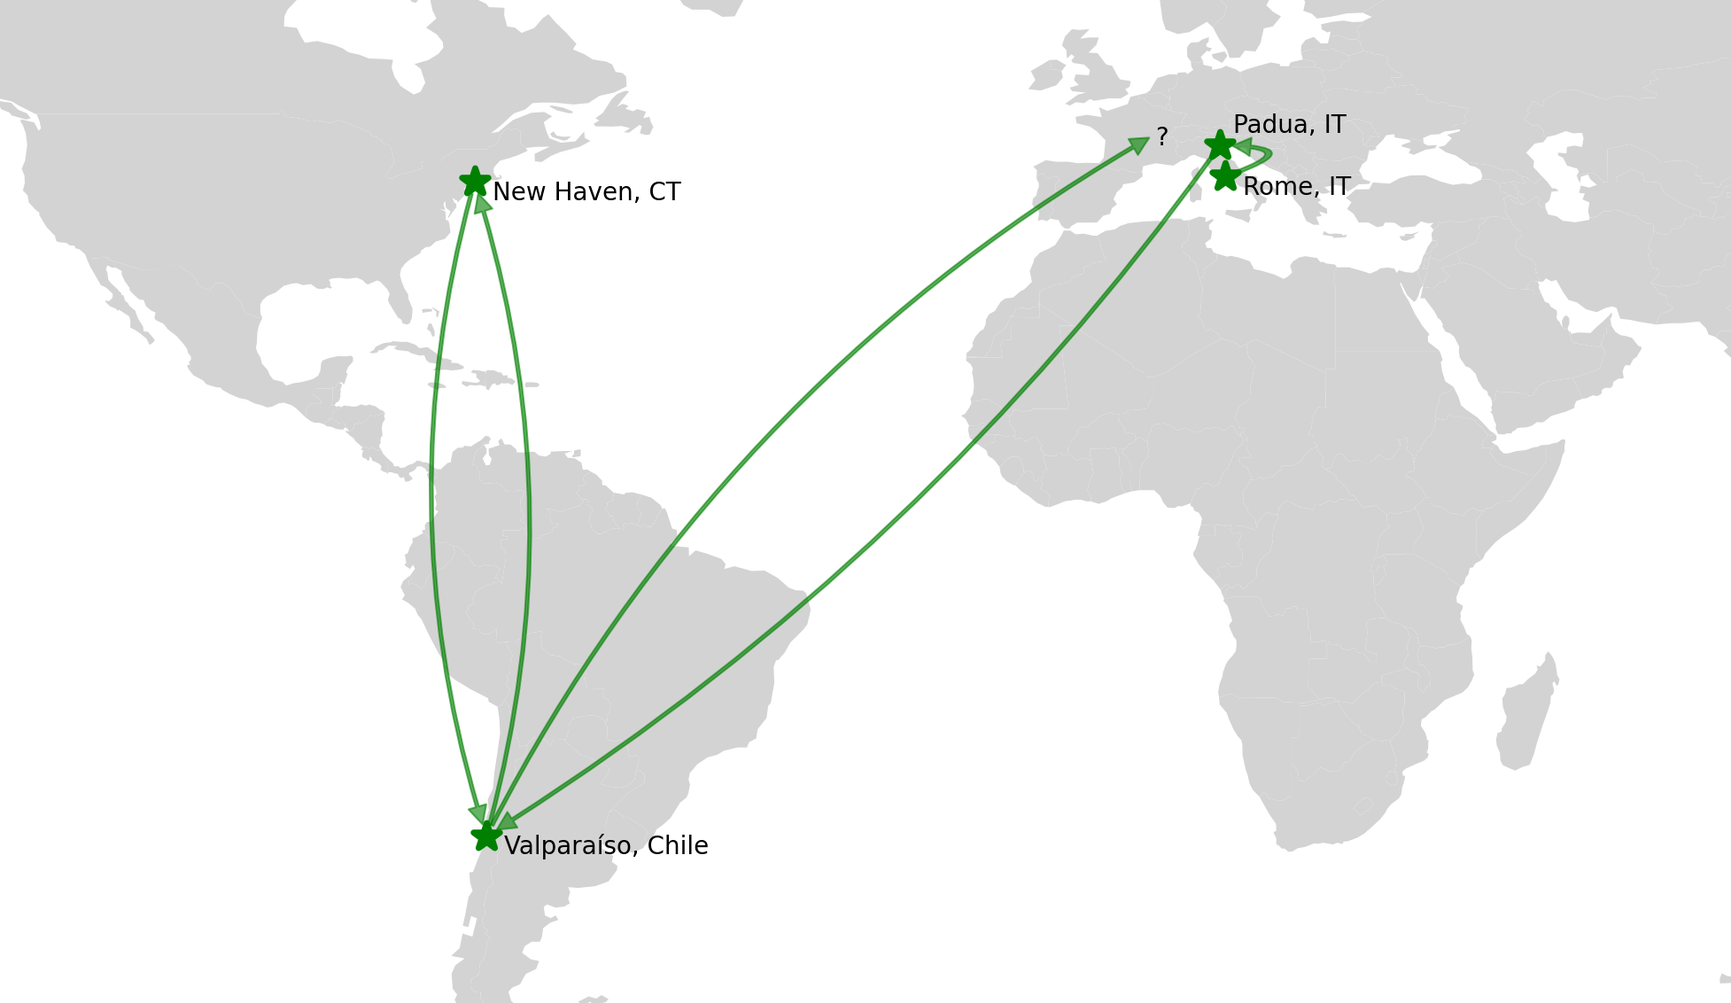
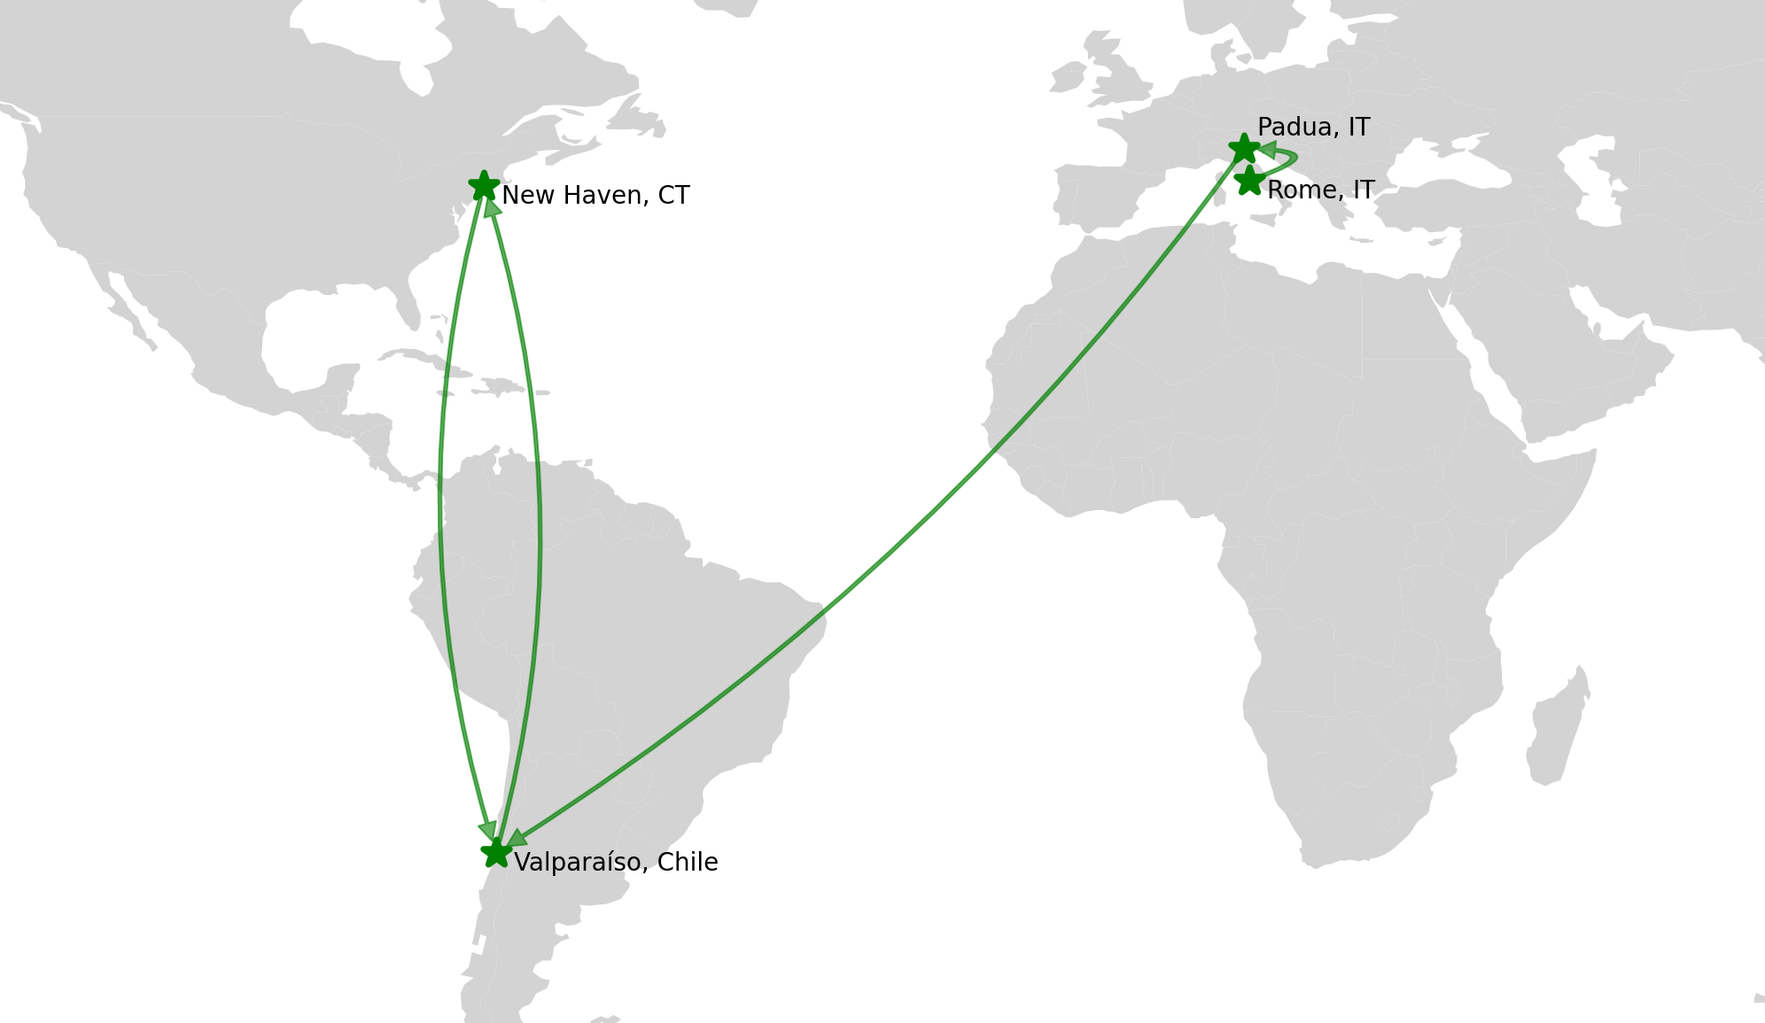
Reintroduced world map as background but in experiences section. Updated world map image and realigned index file.

diff --git a/index.html b/index.html
@@ -169,7 +169,8 @@
                               <h2 class="number zero">04</h2>
                            </div>
                            <h2 class="project-title">Light curves</h2>
-                           <p class="project-description">investigating the variability of active black holes in galactic centers</p>
+                           <p class="project-description">investigating the variability of active black holes in
+                              galactic centers</p>
                            <div class="collection-list-wrapper w-dyn-list">
                               <div role="list" class="w-dyn-items w-row">
                                  <div role="listitem" class="collection-item-2 w-dyn-item w-col w-col-6"><a href="#"
@@ -229,7 +230,8 @@
                                  &#95;
                               </div>
                            </div>
-                           <p class="project-description">An interactive app that generates pizza recipes based on user preferences.</p>
+                           <p class="project-description">An interactive app that generates pizza recipes based on user
+                              preferences.</p>
                            <div class="collection-list-wrapper w-dyn-list">
                               <div role="list" class="w-dyn-items w-row">
                                  <div role="listitem" class="collection-item-2 w-dyn-item w-col w-col-6"><a href="#"
@@ -251,7 +253,8 @@
                               <h2 class="number zero">07</h2>
                            </div>
                            <h2 class="project-title">WO Cal</h2>
-                           <p class="project-description">A calendar app that enables users to log and track their workouts performed by following YouTube videos.</p>
+                           <p class="project-description">A calendar app that enables users to log and track their
+                              workouts performed by following YouTube videos.</p>
                            <div class="collection-list-wrapper w-dyn-list">
                               <div role="list" class="w-dyn-items w-row">
                                  <div role="listitem" class="collection-item-2 w-dyn-item w-col w-col-6"><a href="#"
@@ -278,7 +281,7 @@
                            <div class="collection-list-wrapper w-dyn-list">
                               <div role="list" class="w-dyn-items w-row">
                                  <div role="listitem" class="collection-item-2 w-dyn-item w-col w-col-6"><a href="#"
-                                       class="tag-button w-button">IDL    .</a></div>
+                                       class="tag-button w-button">IDL .</a></div>
                                  <div role="listitem" class="collection-item-2 w-dyn-item w-col w-col-6"><a href="#"
                                        class="tag-button w-button"></a></div>
                               </div>
@@ -297,7 +300,8 @@
                               <h2 class="number zero">09</h2>
                            </div>
                            <h2 class="project-title">This website</h2>
-                           <p class="project-description">A Webflow-based portfolio website with customizations, made with no previous web experience</p>
+                           <p class="project-description">A Webflow-based portfolio website with customizations, made
+                              with no previous web experience</p>
                            <div class="collection-list-wrapper w-dyn-list">
                               <div class="empty-state-2 w-dyn-empty">
                                  <div>No items found.</div>
@@ -309,7 +313,9 @@
                </div>
             </div>
          </div>
-         <div-block-28 class="sticky" onclick="scrollFunction1('about_me')"><btn class="bouncy" style="animation-delay:0.07s">&#8595  About me</btn></div-block-28>
+         <div-block-28 class="sticky" onclick="scrollFunction1('about_me')">
+            <btn class="bouncy" style="animation-delay:0.07s">&#8595 About me</btn>
+         </div-block-28>
          <!--
          <div class="wrapper about" id="about_me">
             <div class="column about">
@@ -377,129 +383,134 @@
                         alt="" /></a>
                </div>
             </div>
+         </div>
+         <div class="wrapper about" id="about_me">
             <div class="wrapper-info about">
-               <div class="wrap-content">
-                  <h2 class="heading-8">Experiences</h2>
-                  <div class="div-block-16">
-                     <h4 class="heading-9">PhD in astrophysics</h4>
-                     <p>Universidad de Valparaíso, Chile</p>
-                  </div>
-                  <div class="div-block-16">
-                     <h4 class="heading-9">Visiting assistant in research</h4>
-                     <p>Yale University, New Haven, CT, USA</p>
-                  </div>
-                  <div class="div-block-16">
-                     <h4 class="heading-10">MSc in astronomy</h4>
-                     <p>Università degli Studi di Padova, Italy</p>
-                  </div>
-                  <div class="div-block-16">
-                     <h4 class="heading-11">BSc in physics</h4>
-                     <p>Università degli Studi Roma Tre, Italy</p>
-                  </div>
-                  <div class="signature">Rosamaria.</div>
+               <!--
+               <div class="wrap-content"> -->
+               <h2 class="heading-8">Experiences</h2>
+               <div class="div-block-16">
+                  <h4 class="heading-9">PhD in astrophysics</h4>
+                  <p>Universidad de Valparaíso, Chile</p>
                </div>
+               <div class="div-block-16">
+                  <h4 class="heading-9">Visiting assistant in research</h4>
+                  <p>Yale University, New Haven, CT, USA</p>
+               </div>
+               <div class="div-block-16">
+                  <h4 class="heading-10">MSc in astronomy</h4>
+                  <p>Università degli Studi di Padova, Italy</p>
+               </div>
+               <div class="div-block-16">
+                  <h4 class="heading-11">BSc in physics</h4>
+                  <p>Università degli Studi Roma Tre, Italy</p>
+               </div>
+               <div class="signature">Rosamaria.</div>
             </div>
-            <div-block-28 class="sticky" onclick="scrollFunction1('contact_me')"><btn class="bouncy" style="animation-delay:0.07s">&#8595  Contact me</btn></div-block-28>
-            <div class="wrapper-info contact" id="contact_me">
-               <div class="div-block-18">
-                  <h2 class="heading-12">Get in touch.</h2>
-               </div>
-               <div class="wrap-content">
-                  <div class="_w-form">
-                     <div class="w-form">
-                        <form id="email-form" name="email-form" data-name="Email Form" method="get"><input type="text"
-                              class="field w-input" maxlength="256" name="name" data-name="Name" placeholder="Your Name"
-                              id="name"><input type="text" class="field w-input" maxlength="256" name="name-2"
-                              data-name="Name 2" placeholder="Your Email" id="name-2"><textarea id="field" name="field"
-                              placeholder="Message" maxlength="5000" data-name="field"
-                              class="field w-input"></textarea><input type="submit" value="Submit"
-                              data-wait="Please wait..." class="tag-button w-button"></form>
-                        <div class="w-form-done">
-                           <div>Thank you! Your submission has been received!</div>
-                        </div>
-                        <div class="w-form-fail">
-                           <div>Oops! Something went wrong while submitting the form.</div>
-                        </div>
+         </div>
+         <div-block-28 class="sticky" onclick="scrollFunction1('contact_me')">
+            <btn class="bouncy" style="animation-delay:0.07s">&#8595 Contact me</btn>
+         </div-block-28>
+         <div class="wrapper-info contact" id="contact_me">
+            <div class="div-block-18">
+               <h2 class="heading-12">Get in touch.</h2>
+            </div>
+            <div class="wrap-content">
+               <div class="_w-form">
+                  <div class="w-form">
+                     <form id="email-form" name="email-form" data-name="Email Form" method="get"><input type="text"
+                           class="field w-input" maxlength="256" name="name" data-name="Name" placeholder="Your Name"
+                           id="name"><input type="text" class="field w-input" maxlength="256" name="name-2"
+                           data-name="Name 2" placeholder="Your Email" id="name-2"><textarea id="field" name="field"
+                           placeholder="Message" maxlength="5000" data-name="field"
+                           class="field w-input"></textarea><input type="submit" value="Submit"
+                           data-wait="Please wait..." class="tag-button w-button"></form>
+                     <div class="w-form-done">
+                        <div>Thank you! Your submission has been received!</div>
+                     </div>
+                     <div class="w-form-fail">
+                        <div>Oops! Something went wrong while submitting the form.</div>
                      </div>
                   </div>
                </div>
             </div>
          </div>
-         <div class="wrapper center form base hide">
-            <div class="wrapper-info contact">
-               <div class="div-block-18">
-                  <h2>Around the web</h2>
-               </div>
-               <div>
-                  <div class="wrap-content links"><a href="/about" data-w-id="095e404c-d530-4466-20f6-3ad637b21e45"
-                        class="_w-link social w-inline-block">
-                        <h2 class="h2 mail">Email</h2>
-                        <div class="line-hover">
-                           <div
-                              style="-webkit-transform:translate3d(-102%, 0, 0) scale3d(1, 1, 1) rotateX(0) rotateY(0) rotateZ(0) skew(0, 0);-moz-transform:translate3d(-102%, 0, 0) scale3d(1, 1, 1) rotateX(0) rotateY(0) rotateZ(0) skew(0, 0);-ms-transform:translate3d(-102%, 0, 0) scale3d(1, 1, 1) rotateX(0) rotateY(0) rotateZ(0) skew(0, 0);transform:translate3d(-102%, 0, 0) scale3d(1, 1, 1) rotateX(0) rotateY(0) rotateZ(0) skew(0, 0)"
-                              class="fill-hover"></div>
-                        </div>
-                     </a><a href="/about" data-w-id="095e404c-d530-4466-20f6-3ad637b21e4a"
-                        class="_w-link social w-inline-block">
-                        <h2 class="h2 mail">Instagram</h2>
-                        <div class="line-hover">
-                           <div
-                              style="-webkit-transform:translate3d(-102%, 0, 0) scale3d(1, 1, 1) rotateX(0) rotateY(0) rotateZ(0) skew(0, 0);-moz-transform:translate3d(-102%, 0, 0) scale3d(1, 1, 1) rotateX(0) rotateY(0) rotateZ(0) skew(0, 0);-ms-transform:translate3d(-102%, 0, 0) scale3d(1, 1, 1) rotateX(0) rotateY(0) rotateZ(0) skew(0, 0);transform:translate3d(-102%, 0, 0) scale3d(1, 1, 1) rotateX(0) rotateY(0) rotateZ(0) skew(0, 0)"
-                              class="fill-hover"></div>
-                        </div>
-                     </a><a href="/about" data-w-id="095e404c-d530-4466-20f6-3ad637b21e4f"
-                        class="_w-link social w-inline-block">
-                        <h2 class="h2 mail">Twitter</h2>
-                        <div class="line-hover">
-                           <div
-                              style="-webkit-transform:translate3d(-102%, 0, 0) scale3d(1, 1, 1) rotateX(0) rotateY(0) rotateZ(0) skew(0, 0);-moz-transform:translate3d(-102%, 0, 0) scale3d(1, 1, 1) rotateX(0) rotateY(0) rotateZ(0) skew(0, 0);-ms-transform:translate3d(-102%, 0, 0) scale3d(1, 1, 1) rotateX(0) rotateY(0) rotateZ(0) skew(0, 0);transform:translate3d(-102%, 0, 0) scale3d(1, 1, 1) rotateX(0) rotateY(0) rotateZ(0) skew(0, 0)"
-                              class="fill-hover"></div>
-                        </div>
-                     </a><a href="/about" data-w-id="095e404c-d530-4466-20f6-3ad637b21e54"
-                        class="_w-link social w-inline-block">
-                        <h2 class="h2 mail">Facebook</h2>
-                        <div class="line-hover">
-                           <div
-                              style="-webkit-transform:translate3d(-102%, 0, 0) scale3d(1, 1, 1) rotateX(0) rotateY(0) rotateZ(0) skew(0, 0);-moz-transform:translate3d(-102%, 0, 0) scale3d(1, 1, 1) rotateX(0) rotateY(0) rotateZ(0) skew(0, 0);-ms-transform:translate3d(-102%, 0, 0) scale3d(1, 1, 1) rotateX(0) rotateY(0) rotateZ(0) skew(0, 0);transform:translate3d(-102%, 0, 0) scale3d(1, 1, 1) rotateX(0) rotateY(0) rotateZ(0) skew(0, 0)"
-                              class="fill-hover"></div>
-                        </div>
-                     </a><a href="/about" data-w-id="095e404c-d530-4466-20f6-3ad637b21e59"
-                        class="_w-link social w-inline-block">
-                        <h2 class="h2 mail">LinkedIn</h2>
-                        <div class="line-hover">
-                           <div
-                              style="-webkit-transform:translate3d(-102%, 0, 0) scale3d(1, 1, 1) rotateX(0) rotateY(0) rotateZ(0) skew(0, 0);-moz-transform:translate3d(-102%, 0, 0) scale3d(1, 1, 1) rotateX(0) rotateY(0) rotateZ(0) skew(0, 0);-ms-transform:translate3d(-102%, 0, 0) scale3d(1, 1, 1) rotateX(0) rotateY(0) rotateZ(0) skew(0, 0);transform:translate3d(-102%, 0, 0) scale3d(1, 1, 1) rotateX(0) rotateY(0) rotateZ(0) skew(0, 0)"
-                              class="fill-hover"></div>
-                        </div>
-                     </a></div>
-               </div>
+      </div>
+      <div class="wrapper center form base hide">
+         <div class="wrapper-info contact">
+            <div class="div-block-18">
+               <h2>Around the web</h2>
             </div>
-         </div>
-         <div class="div-block-27">
-            <div class="div-block-26">
-               <div class="heading-6">The Marvelous Portfolio of Dr. Carraro</div>
-               <div class="wrapper-list-links">
-                  <a href="https://github.com/RosCarraro" target="_blank" class="footer-links">GitHub</a>
-                  <a href="https://bitbucket.org/ros_carraro/" target="_blank" class="footer-links">Bitbucket</a>
-                  <a href="https://www.datacamp.com/profile/carrarorosamaria" target="_blank"
-                     class="footer-links">DataCamp</a>
-                  <a href="https://www.linkedin.com/in/rosamaria-carraro/" target="_blank"
-                     class="footer-links">LinkedIn</a>
-                  <a href="https://scholar.google.com/citations?user=sN1esaMAAAAJ" target="_blank"
-                     class="footer-links">Google
-                     Scholar</a>
-                  <a href="https://orcid.org/0000-0002-6089-1947" target="_blank" class="footer-links">ORCID</a>
-                  <a href="/docs/Rosamaria_Carraro_CV.pdf" target="_blank" class="footer-links">CV</a>
-               </div>
-               <img src="/images/62d5ff135f63b73916b3dbf5_IMG_20190818_182510_cut_small.jpg" width="100"
-                  srcset="/images/62d5ff135f63b73916b3dbf5_IMG_20190818_182510_cut_small-p-500.jpg 500w, /images/62d5ff135f63b73916b3dbf5_IMG_20190818_182510_cut_small-p-800.jpg 800w, /images/62d5ff135f63b73916b3dbf5_IMG_20190818_182510_cut_small-p-1080.jpg 1080w, /images/62d5ff135f63b73916b3dbf5_IMG_20190818_182510_cut_small-p-1600.jpg 1600w, /images/62d5ff135f63b73916b3dbf5_IMG_20190818_182510_cut_small-p-2000.jpg 2000w, /images/62d5ff135f63b73916b3dbf5_IMG_20190818_182510_cut_small-p-2600.jpg 2600w, /images/62d5ff135f63b73916b3dbf5_IMG_20190818_182510_cut_small-p-3200.jpg 3200w, /images/62d5ff135f63b73916b3dbf5_IMG_20190818_182510_cut_small.jpg 3847w"
-                  sizes="100px" alt="" class="lazy">
+            <div>
+               <div class="wrap-content links"><a href="/about" data-w-id="095e404c-d530-4466-20f6-3ad637b21e45"
+                     class="_w-link social w-inline-block">
+                     <h2 class="h2 mail">Email</h2>
+                     <div class="line-hover">
+                        <div
+                           style="-webkit-transform:translate3d(-102%, 0, 0) scale3d(1, 1, 1) rotateX(0) rotateY(0) rotateZ(0) skew(0, 0);-moz-transform:translate3d(-102%, 0, 0) scale3d(1, 1, 1) rotateX(0) rotateY(0) rotateZ(0) skew(0, 0);-ms-transform:translate3d(-102%, 0, 0) scale3d(1, 1, 1) rotateX(0) rotateY(0) rotateZ(0) skew(0, 0);transform:translate3d(-102%, 0, 0) scale3d(1, 1, 1) rotateX(0) rotateY(0) rotateZ(0) skew(0, 0)"
+                           class="fill-hover"></div>
+                     </div>
+                  </a><a href="/about" data-w-id="095e404c-d530-4466-20f6-3ad637b21e4a"
+                     class="_w-link social w-inline-block">
+                     <h2 class="h2 mail">Instagram</h2>
+                     <div class="line-hover">
+                        <div
+                           style="-webkit-transform:translate3d(-102%, 0, 0) scale3d(1, 1, 1) rotateX(0) rotateY(0) rotateZ(0) skew(0, 0);-moz-transform:translate3d(-102%, 0, 0) scale3d(1, 1, 1) rotateX(0) rotateY(0) rotateZ(0) skew(0, 0);-ms-transform:translate3d(-102%, 0, 0) scale3d(1, 1, 1) rotateX(0) rotateY(0) rotateZ(0) skew(0, 0);transform:translate3d(-102%, 0, 0) scale3d(1, 1, 1) rotateX(0) rotateY(0) rotateZ(0) skew(0, 0)"
+                           class="fill-hover"></div>
+                     </div>
+                  </a><a href="/about" data-w-id="095e404c-d530-4466-20f6-3ad637b21e4f"
+                     class="_w-link social w-inline-block">
+                     <h2 class="h2 mail">Twitter</h2>
+                     <div class="line-hover">
+                        <div
+                           style="-webkit-transform:translate3d(-102%, 0, 0) scale3d(1, 1, 1) rotateX(0) rotateY(0) rotateZ(0) skew(0, 0);-moz-transform:translate3d(-102%, 0, 0) scale3d(1, 1, 1) rotateX(0) rotateY(0) rotateZ(0) skew(0, 0);-ms-transform:translate3d(-102%, 0, 0) scale3d(1, 1, 1) rotateX(0) rotateY(0) rotateZ(0) skew(0, 0);transform:translate3d(-102%, 0, 0) scale3d(1, 1, 1) rotateX(0) rotateY(0) rotateZ(0) skew(0, 0)"
+                           class="fill-hover"></div>
+                     </div>
+                  </a><a href="/about" data-w-id="095e404c-d530-4466-20f6-3ad637b21e54"
+                     class="_w-link social w-inline-block">
+                     <h2 class="h2 mail">Facebook</h2>
+                     <div class="line-hover">
+                        <div
+                           style="-webkit-transform:translate3d(-102%, 0, 0) scale3d(1, 1, 1) rotateX(0) rotateY(0) rotateZ(0) skew(0, 0);-moz-transform:translate3d(-102%, 0, 0) scale3d(1, 1, 1) rotateX(0) rotateY(0) rotateZ(0) skew(0, 0);-ms-transform:translate3d(-102%, 0, 0) scale3d(1, 1, 1) rotateX(0) rotateY(0) rotateZ(0) skew(0, 0);transform:translate3d(-102%, 0, 0) scale3d(1, 1, 1) rotateX(0) rotateY(0) rotateZ(0) skew(0, 0)"
+                           class="fill-hover"></div>
+                     </div>
+                  </a><a href="/about" data-w-id="095e404c-d530-4466-20f6-3ad637b21e59"
+                     class="_w-link social w-inline-block">
+                     <h2 class="h2 mail">LinkedIn</h2>
+                     <div class="line-hover">
+                        <div
+                           style="-webkit-transform:translate3d(-102%, 0, 0) scale3d(1, 1, 1) rotateX(0) rotateY(0) rotateZ(0) skew(0, 0);-moz-transform:translate3d(-102%, 0, 0) scale3d(1, 1, 1) rotateX(0) rotateY(0) rotateZ(0) skew(0, 0);-ms-transform:translate3d(-102%, 0, 0) scale3d(1, 1, 1) rotateX(0) rotateY(0) rotateZ(0) skew(0, 0);transform:translate3d(-102%, 0, 0) scale3d(1, 1, 1) rotateX(0) rotateY(0) rotateZ(0) skew(0, 0)"
+                           class="fill-hover"></div>
+                     </div>
+                  </a></div>
             </div>
          </div>
       </div>
-      <script src="/js/jquery-3.5.1.min.dc5e7f18c8.js" type="text/javascript" crossorigin="anonymous"></script>
-      <script src="/js/webflow.26d99f9dd.js" type="text/javascript"></script>
-      <!--[if lte IE 9]><script src="//cdnjs.cloudflare.com/ajax/libs/placeholders/3.0.2/placeholders.min.js"></script><![endif]-->
+      <div class="div-block-27">
+         <div class="div-block-26">
+            <div class="heading-6">The Marvelous Portfolio of Dr. Carraro</div>
+            <div class="wrapper-list-links">
+               <a href="https://github.com/RosCarraro" target="_blank" class="footer-links">GitHub</a>
+               <a href="https://bitbucket.org/ros_carraro/" target="_blank" class="footer-links">Bitbucket</a>
+               <a href="https://www.datacamp.com/profile/carrarorosamaria" target="_blank"
+                  class="footer-links">DataCamp</a>
+               <a href="https://www.linkedin.com/in/rosamaria-carraro/" target="_blank"
+                  class="footer-links">LinkedIn</a>
+               <a href="https://scholar.google.com/citations?user=sN1esaMAAAAJ" target="_blank"
+                  class="footer-links">Google
+                  Scholar</a>
+               <a href="https://orcid.org/0000-0002-6089-1947" target="_blank" class="footer-links">ORCID</a>
+               <a href="/docs/Rosamaria_Carraro_CV.pdf" target="_blank" class="footer-links">CV</a>
+            </div>
+            <img src="/images/62d5ff135f63b73916b3dbf5_IMG_20190818_182510_cut_small.jpg" width="100"
+               srcset="/images/62d5ff135f63b73916b3dbf5_IMG_20190818_182510_cut_small-p-500.jpg 500w, /images/62d5ff135f63b73916b3dbf5_IMG_20190818_182510_cut_small-p-800.jpg 800w, /images/62d5ff135f63b73916b3dbf5_IMG_20190818_182510_cut_small-p-1080.jpg 1080w, /images/62d5ff135f63b73916b3dbf5_IMG_20190818_182510_cut_small-p-1600.jpg 1600w, /images/62d5ff135f63b73916b3dbf5_IMG_20190818_182510_cut_small-p-2000.jpg 2000w, /images/62d5ff135f63b73916b3dbf5_IMG_20190818_182510_cut_small-p-2600.jpg 2600w, /images/62d5ff135f63b73916b3dbf5_IMG_20190818_182510_cut_small-p-3200.jpg 3200w, /images/62d5ff135f63b73916b3dbf5_IMG_20190818_182510_cut_small.jpg 3847w"
+               sizes="100px" alt="" class="lazy">
+         </div>
+      </div>
+   </div>
+   <script src="/js/jquery-3.5.1.min.dc5e7f18c8.js" type="text/javascript" crossorigin="anonymous"></script>
+   <script src="/js/webflow.26d99f9dd.js" type="text/javascript"></script>
+   <!--[if lte IE 9]><script src="//cdnjs.cloudflare.com/ajax/libs/placeholders/3.0.2/placeholders.min.js"></script><![endif]-->
 </body>
 
 </html>

diff --git a/css/rosamaria-carraro.webflow.c1ff2252c.css b/css/rosamaria-carraro.webflow.c1ff2252c.css
@@ -3069,6 +3069,8 @@ btn {
 
 .wrapper.about {
    background-image: url("/images/world_map.png");
+   background-color: rgba(255,255,255,0.6);
+   background-blend-mode: overlay;
    background-position: 50% 50%;
    background-size: cover;
    background-repeat: no-repeat;
